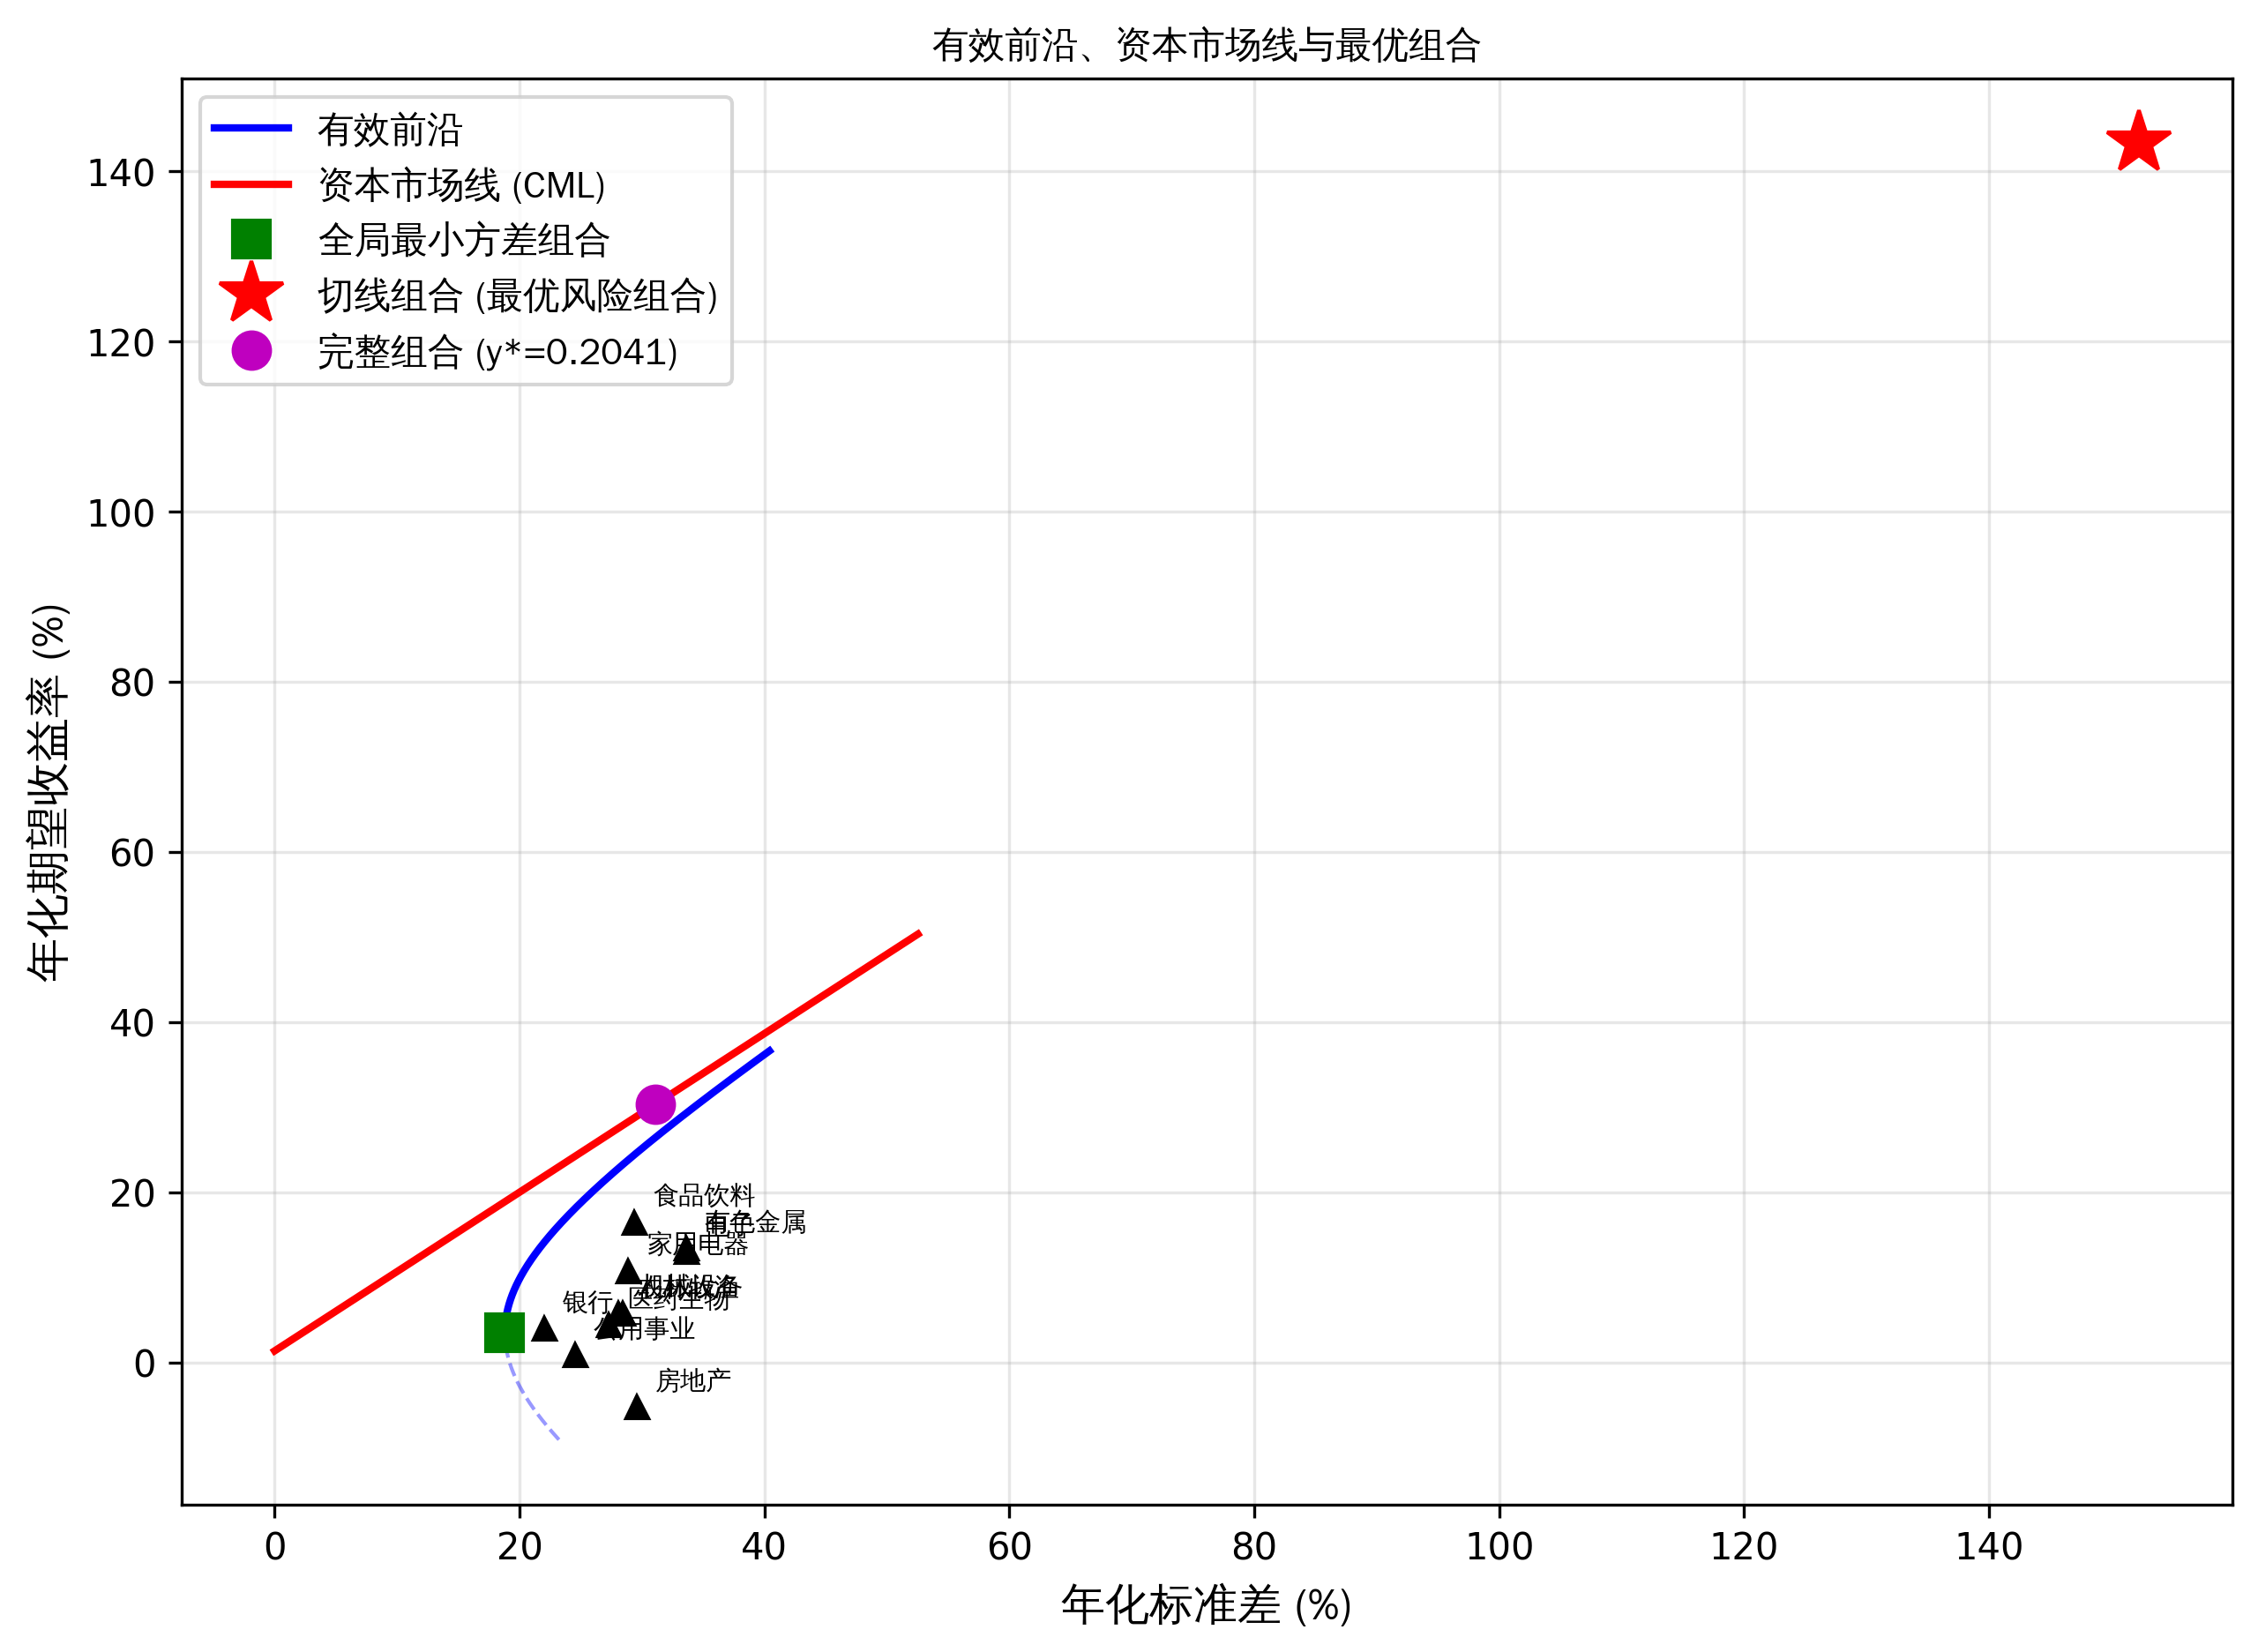
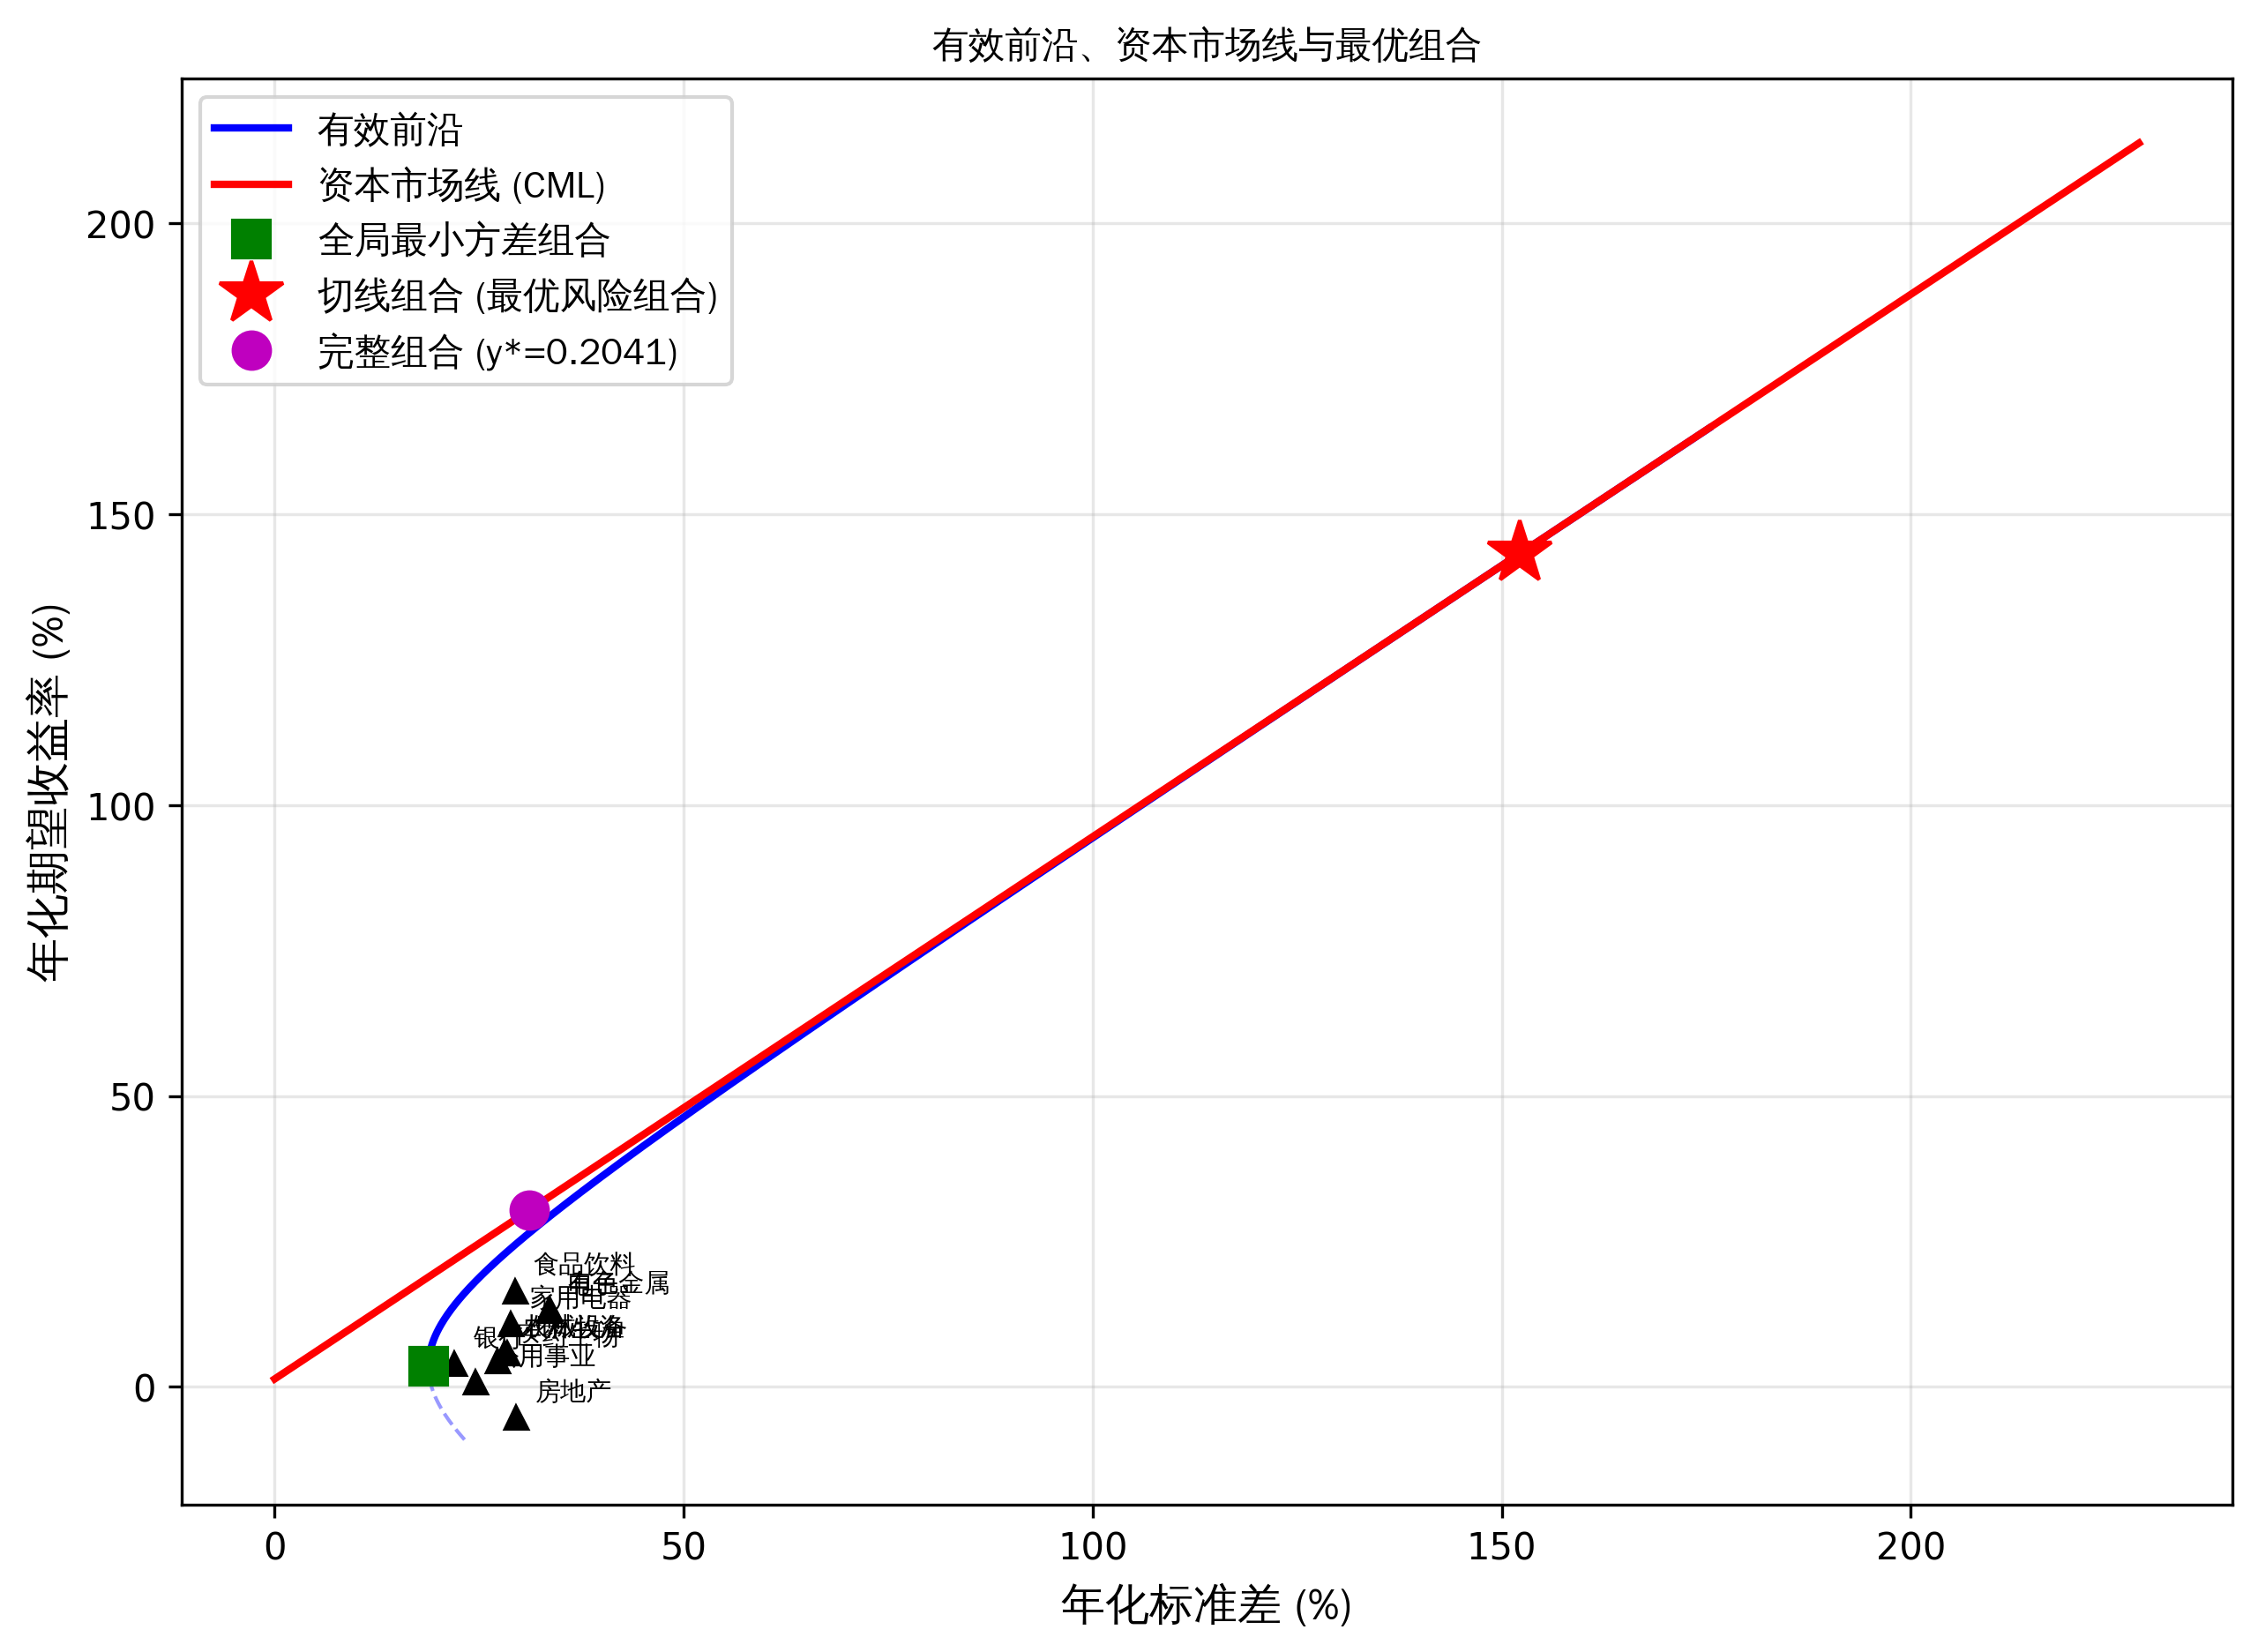
Fix efficient frontier plot to show tangency point on curve
Extended the frontier range to reach the tangency portfolio so the CML
visually touches the efficient frontier. Also fixed Chinese font rendering
using WenQuanYi Zen Hei.

Generated with [Claude Code](https://claude.ai/code)
via [Happy](https://happy.engineering)

diff --git a/task1.py b/task1.py
@@ -103,7 +103,7 @@ def compute_correlation(returns):
 # 3. MARKOWITZ STEP 1: EFFICIENT FRONTIER (RISKY ASSETS ONLY)
 # ══════════════════════════════════════════════════════════════════════════════
 
-def compute_frontier_analytical(mu, Sigma):
+def compute_frontier_analytical(mu, Sigma, tang_mu=None):
     n = len(mu)
     ones = np.ones(n)
     Sigma_inv = np.linalg.inv(Sigma)
@@ -117,7 +117,10 @@ def compute_frontier_analytical(mu, Sigma):
     mu_gmv = A_val / C_val
     sigma_gmv = np.sqrt(1.0 / C_val)
 
-    mu_range = np.linspace(mu_gmv - 0.0005, mu.max() + 0.0008, 500)
+    upper_limit = mu.max() + 0.0008
+    if tang_mu is not None:
+        upper_limit = max(upper_limit, tang_mu * 1.15)
+    mu_range = np.linspace(mu_gmv - 0.0005, upper_limit, 800)
     sigma_range = np.sqrt((C_val * mu_range**2 - 2 * A_val * mu_range + B_val) / D_val)
 
     upper_mask = mu_range >= mu_gmv
@@ -804,19 +807,19 @@ def main():
     assert np.all(eigvals > 0), f"Covariance matrix not positive definite: {eigvals}"
     print(f"\n[3] Covariance matrix eigenvalues (all positive): min={eigvals.min():.2e}, max={eigvals.max():.2e}")
 
-    # Step 1: Efficient Frontier
-    print("\n[4] Step 1: Computing efficient frontier...")
-    frontier = compute_frontier_analytical(mu, Sigma)
-    print(f"    GMV: E(r) = {frontier['mu_gmv']*TRADING_DAYS*100:.4f}% ann, "
-          f"sigma = {frontier['sigma_gmv']*np.sqrt(TRADING_DAYS)*100:.4f}% ann")
-
-    # Step 2: Tangency Portfolio & CML
+    # Step 2: Tangency Portfolio & CML (compute before frontier so we know the range)
     print("\n[5] Step 2: Computing tangency portfolio...")
     tangency = compute_tangency(mu, Sigma, rf_avg)
     print(f"    Tangency: E(r) = {tangency['mu']*TRADING_DAYS*100:.4f}% ann, "
           f"sigma = {tangency['sigma']*np.sqrt(TRADING_DAYS)*100:.4f}% ann, "
           f"Sharpe = {tangency['sharpe']*np.sqrt(TRADING_DAYS):.4f}")
     print(f"    Weights: {dict(zip([INDEX_NAMES[c] for c in INDEX_ORDER], [f'{w:.4f}' for w in tangency['w']]))}")
+
+    # Step 1: Efficient Frontier (extend range to include tangency point)
+    print("\n[4] Step 1: Computing efficient frontier...")
+    frontier = compute_frontier_analytical(mu, Sigma, tang_mu=tangency['mu'])
+    print(f"    GMV: E(r) = {frontier['mu_gmv']*TRADING_DAYS*100:.4f}% ann, "
+          f"sigma = {frontier['sigma_gmv']*np.sqrt(TRADING_DAYS)*100:.4f}% ann")
 
     # Step 3: Complete Portfolio
     print("\n[6] Step 3: Computing complete portfolio...")